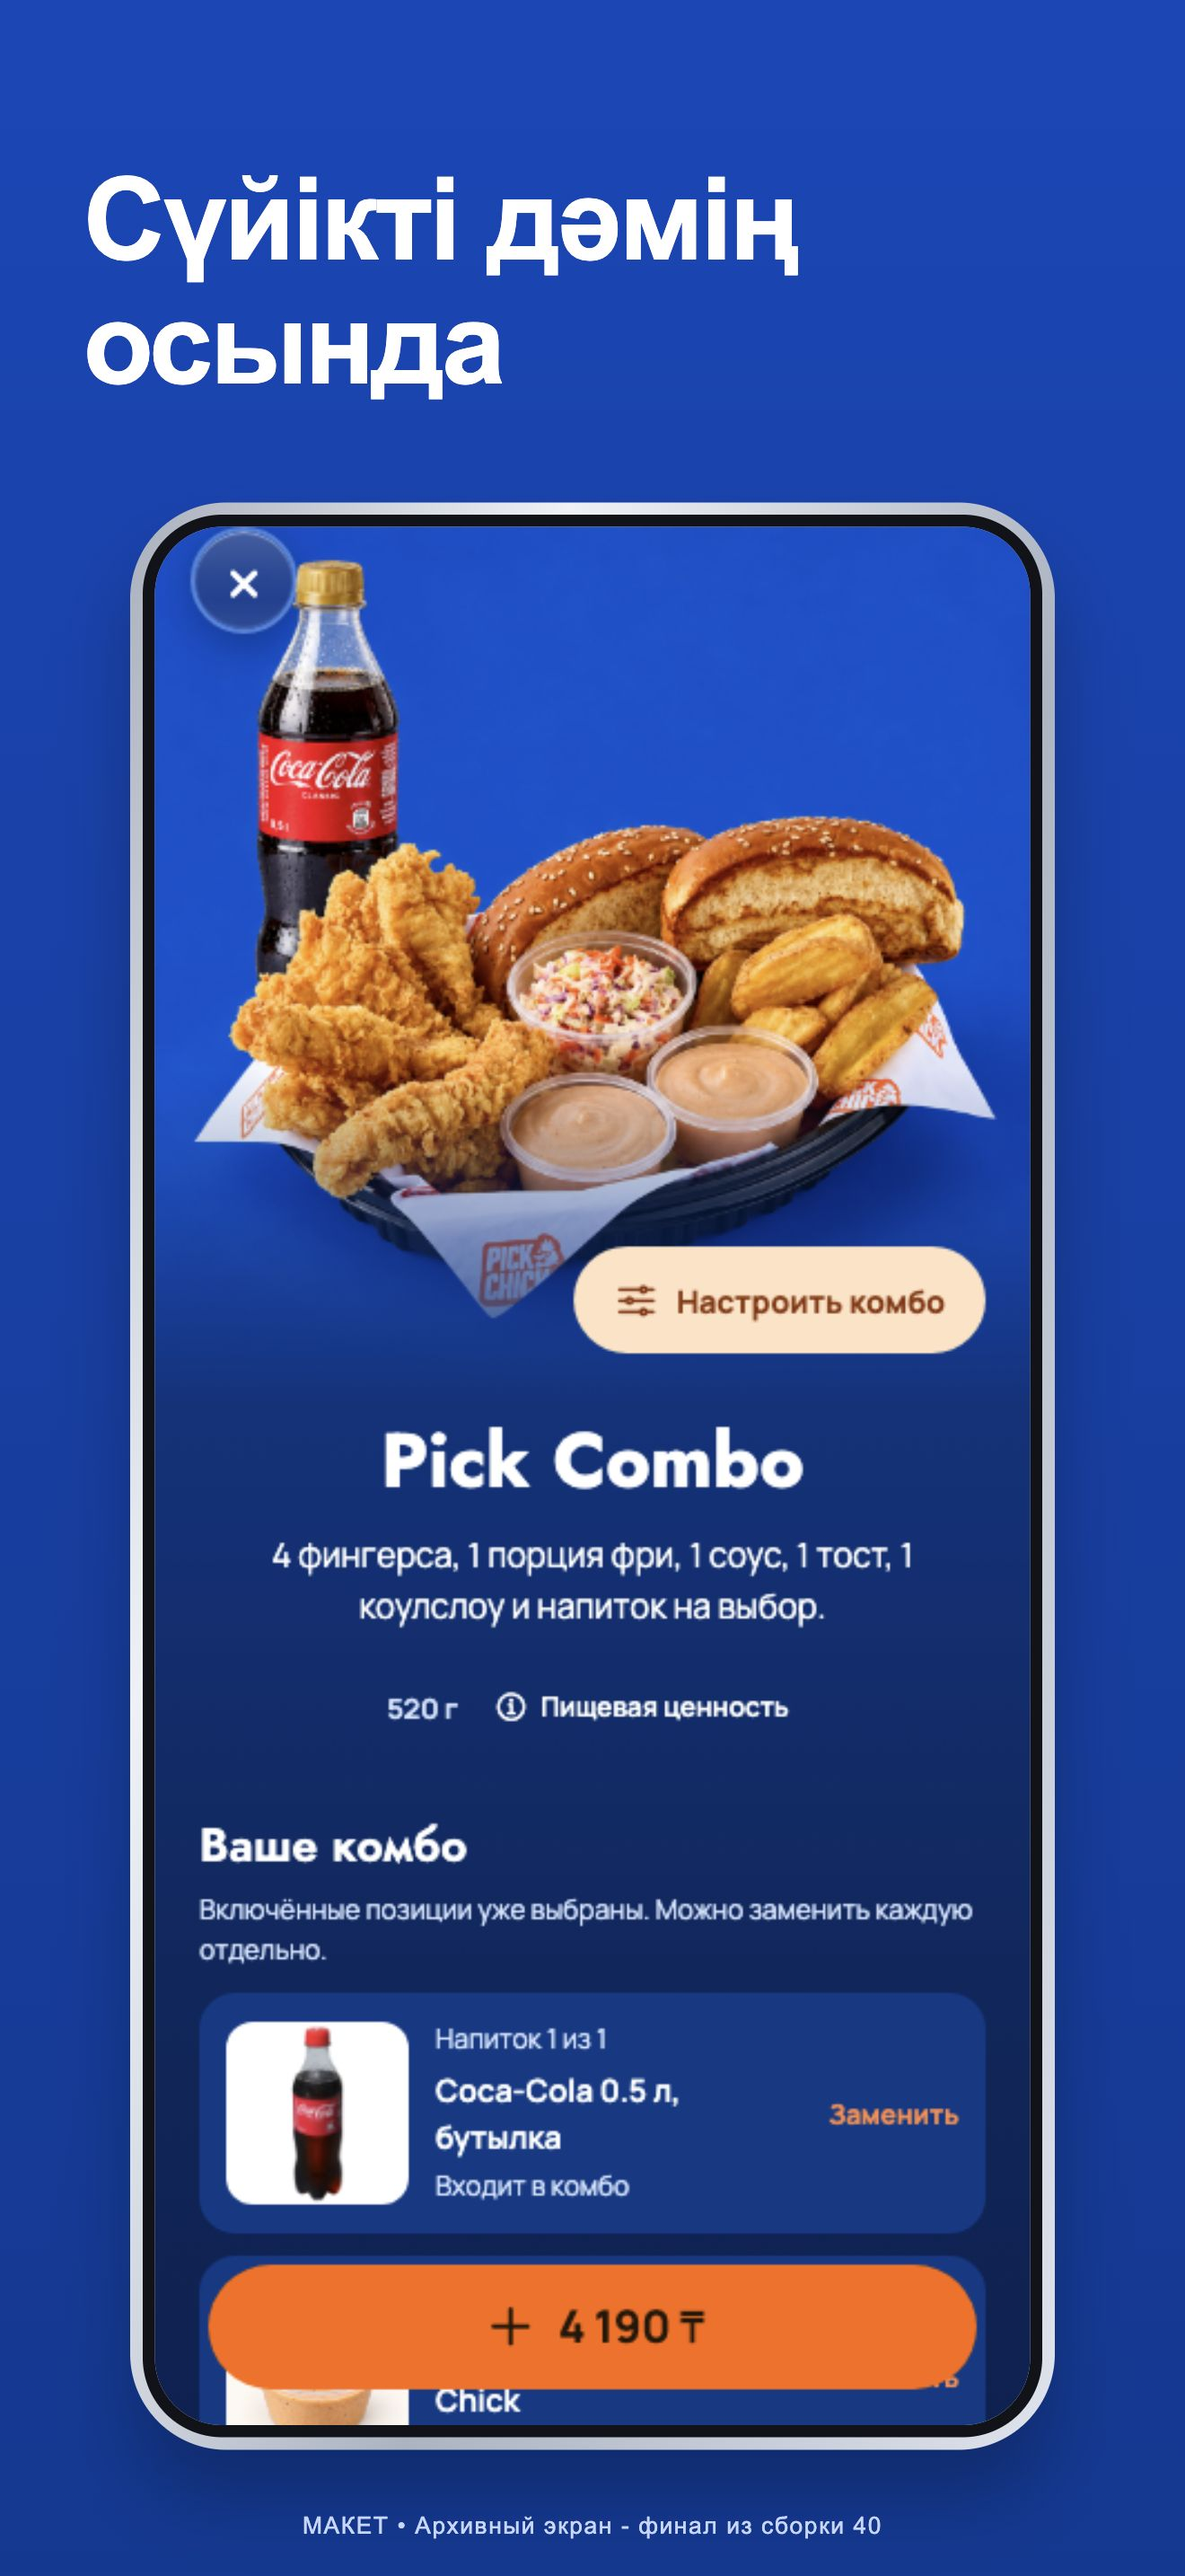
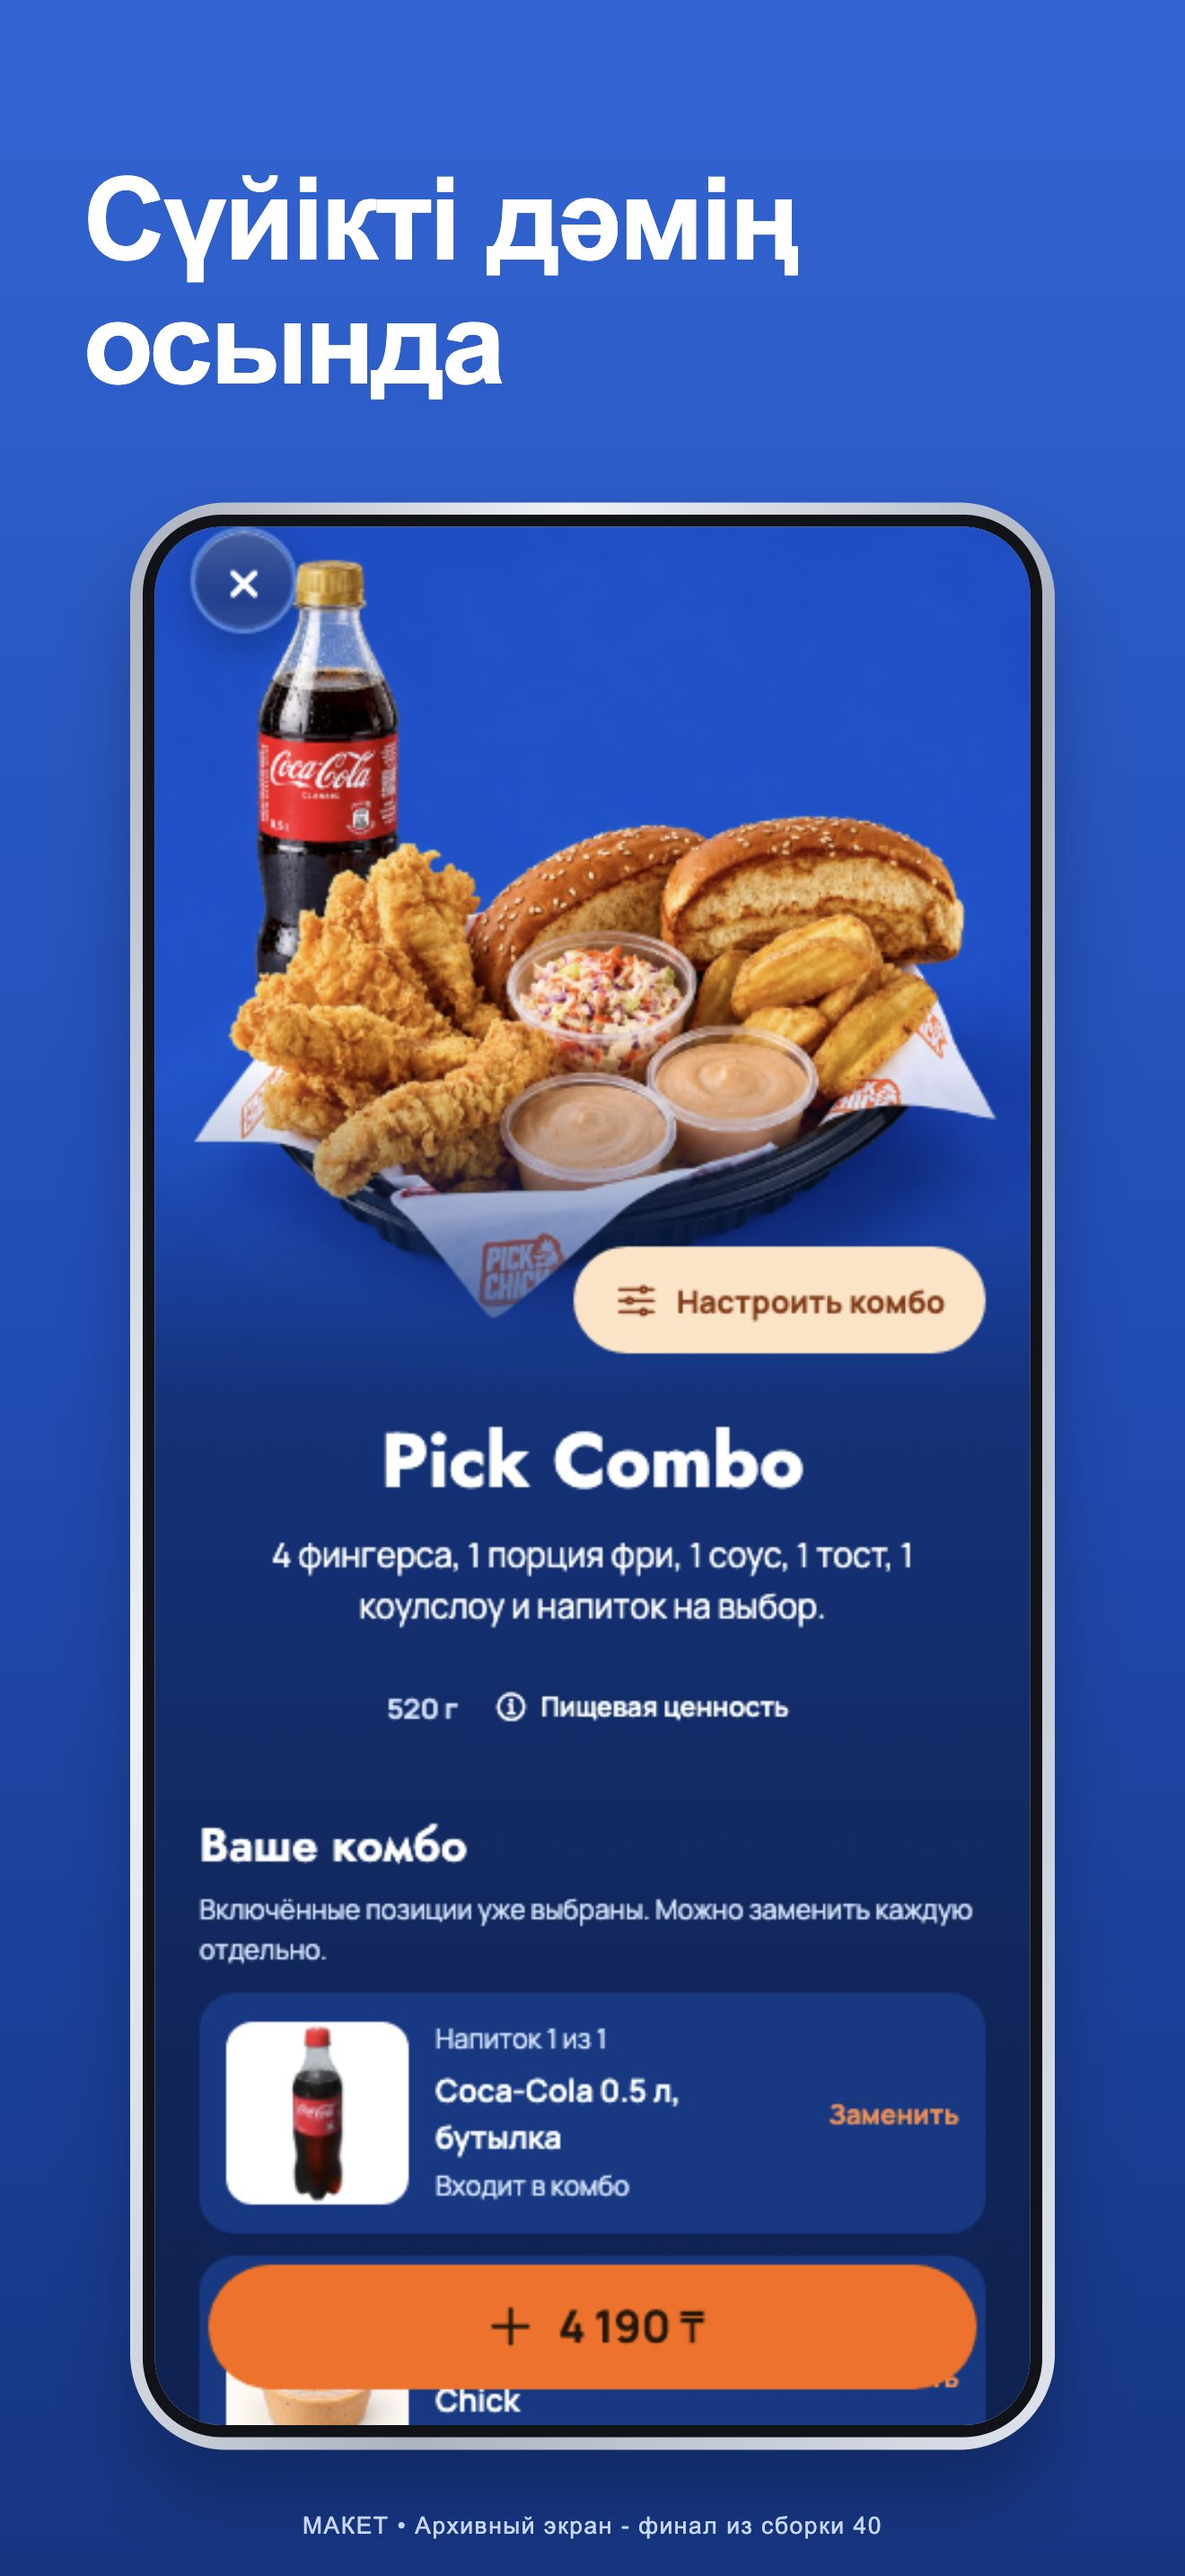
docs: soften blue gradient across store preview artwork

Changed region(s): [[0.0, 0.0, 1.0, 0.2793], [0.0621, 0.2483, 0.0932, 0.2793]]

diff --git a/docs/operations/appstore-refresh-1117/screenshots-preview-1118/index.html b/docs/operations/appstore-refresh-1117/screenshots-preview-1118/index.html
@@ -8,7 +8,9 @@
       :root {
         color-scheme: light;
         --blue: #0047bb;
-        --deep: #003995;
+        --gradient-top: #1b66d9;
+        --gradient-middle: #074dbb;
+        --gradient-bottom: #073585;
         --ink: #04143a;
         --paper: #f2f5fb;
         --white: #fff;
@@ -65,6 +67,26 @@
         outline: 3px solid var(--orange);
         outline-offset: 5px;
       }
+      .cover-preview {
+        margin: 0 0 32px;
+      }
+      .cover-preview .cover-art {
+        width: 100%;
+        aspect-ratio: 3840 / 1646;
+        background: linear-gradient(
+          180deg,
+          var(--gradient-top) 0%,
+          var(--gradient-middle) 52%,
+          var(--gradient-bottom) 100%
+        );
+      }
+      .cover-preview figcaption {
+        padding-top: 10px;
+      }
+      body.strip .cover-preview,
+      body.single .cover-preview {
+        display: none;
+      }
       .grid {
         display: grid;
         grid-template-columns: repeat(3, minmax(0, 1fr));
@@ -78,7 +100,12 @@
         position: relative;
         container-type: inline-size;
         aspect-ratio: 1320/2868;
-        background: linear-gradient(180deg, var(--blue), var(--deep));
+        background: linear-gradient(
+          180deg,
+          var(--gradient-top) 0%,
+          var(--gradient-middle) 52%,
+          var(--gradient-bottom) 100%
+        );
         overflow: hidden;
         color: white;
       }
@@ -231,6 +258,17 @@
         </div>
         <nav><a href="?page=1">1-3</a><a href="?page=2">4-6</a><a href="?">Все</a></nav>
       </header>
+      <figure class="cover-preview">
+        <div
+          class="cover-art"
+          role="img"
+          aria-label="Обложка Pick Chick с мягким синим градиентом"
+        ></div>
+        <figcaption>
+          Новая обложка - тот же мягкий градиент, что и на скриншотах. Предпросмотр, в App Store ещё
+          не загружена.
+        </figcaption>
+      </figure>
       <section class="grid" aria-label="Макеты скриншотов"></section>
       <footer>
         Синий фон продолжает обложку карточки. Внутренние экраны, цены и кнопки не перерисованы. Эти

diff --git a/docs/operations/appstore-refresh-1117/screenshots-preview-1118/README.md b/docs/operations/appstore-refresh-1117/screenshots-preview-1118/README.md
@@ -23,7 +23,7 @@ python3 -m http.server 8876 --bind 127.0.0.1 --directory /private/tmp/pickchick-
 
 ## Оформление и ограничения
 
-Фон - фирменный синий градиент `#0047BB` -> `#003995`. Рамка нейтральная серебристая, без заявления о соответствии конкретному устройству. Использованы только исходные изображения интерфейса и еды, без перерисовки. Казахские фразы целиком набраны Arial Bold: комплектные Jost и Manrope не содержат всех необходимых казахских глифов; наличие этих глифов в системном Arial Bold проверено.
+Фон - фирменный синий градиент `#1B66D9` -> `#074DBB` (52%) -> `#073585`. Рамка нейтральная серебристая, без заявления о соответствии конкретному устройству. Использованы только исходные изображения интерфейса и еды, без перерисовки. Казахские фразы целиком набраны Arial Bold: комплектные Jost и Manrope не содержат всех необходимых казахских глифов; наличие этих глифов в системном Arial Bold проверено.
 
 Исходники в `sources/` сохранены без изменений. Это архивные web-снимки и демонстрационные экраны, не нативные скриншоты build40. Цены не проверены. Пути происхождения и SHA-256 записаны в manifest.
 

diff --git a/docs/operations/appstore-refresh-1117/screenshots-plan.md b/docs/operations/appstore-refresh-1117/screenshots-plan.md
@@ -2,7 +2,7 @@
 
 Статус на 18.11: [макеты оформления](screenshots-preview-1118/README.md) с утверждённым вторым набором подписей готовы для просмотра владельцем. Архивные экраны подписаны как временные. Файлов для загрузки в Apple пока нет.
 
-Спокойный синий фон #0047BB с лёгким затемнением до #003995, крупный настоящий экран в нейтральной серебристой рамке. На каждом кадре один короткий заголовок. Фотографии еды остаются внутри приложения; дополнительных предметов за пределами телефона нет.
+Спокойный синий фон #1B66D9 с плавным переходом через #074DBB к #073585, крупный настоящий экран в нейтральной серебристой рамке. На каждом кадре один короткий заголовок. Фотографии еды остаются внутри приложения; дополнительных предметов за пределами телефона нет.
 
 | Порядок | Казахская подпись        | Смысл по-русски           | Финальный экран             |
 | ------- | ------------------------ | ------------------------- | --------------------------- |

diff --git a/docs/operations/appstore-refresh-1117/README.md b/docs/operations/appstore-refresh-1117/README.md
@@ -24,6 +24,10 @@
 - Предпросмотр Apple: [русский](assets/header-blue-preview-ru-1118.jpg), [английский](assets/header-blue-preview-en-1118.jpg). Внизу видны прежние скриншоты карточки, они в этой операции не заменялись.
 - [Подтверждение черновика](assets/app-store-draft-1118.jpg), [проверки и ограничения](verification.json).
 
+## Обновление градиента 18.11
+
+По просьбе владельца в шести макетах и новой [обложке](assets/header-gradient-3840x1646.png) усилен мягкий вертикальный градиент: #1B66D9, #074DBB на 52%, #073585. Подписи и исходные экраны прежние. Обложка 3840 x 1646, RGB 8-bit sRGB без прозрачности. Новый вариант ещё не загружен в Apple; ранее сохранённая обложка остаётся без изменений. Контраст белого заголовка на самом светлом участке 5.32:1.
+
 ## Осталось
 
 Владелец отклонил прежние подписи и первый короткий вариант. Попросил самостоятельно предложить варианты по исследованию конкурентов. Владелец выбрал и утвердил второй, выразительный набор из captions-1118.md.
